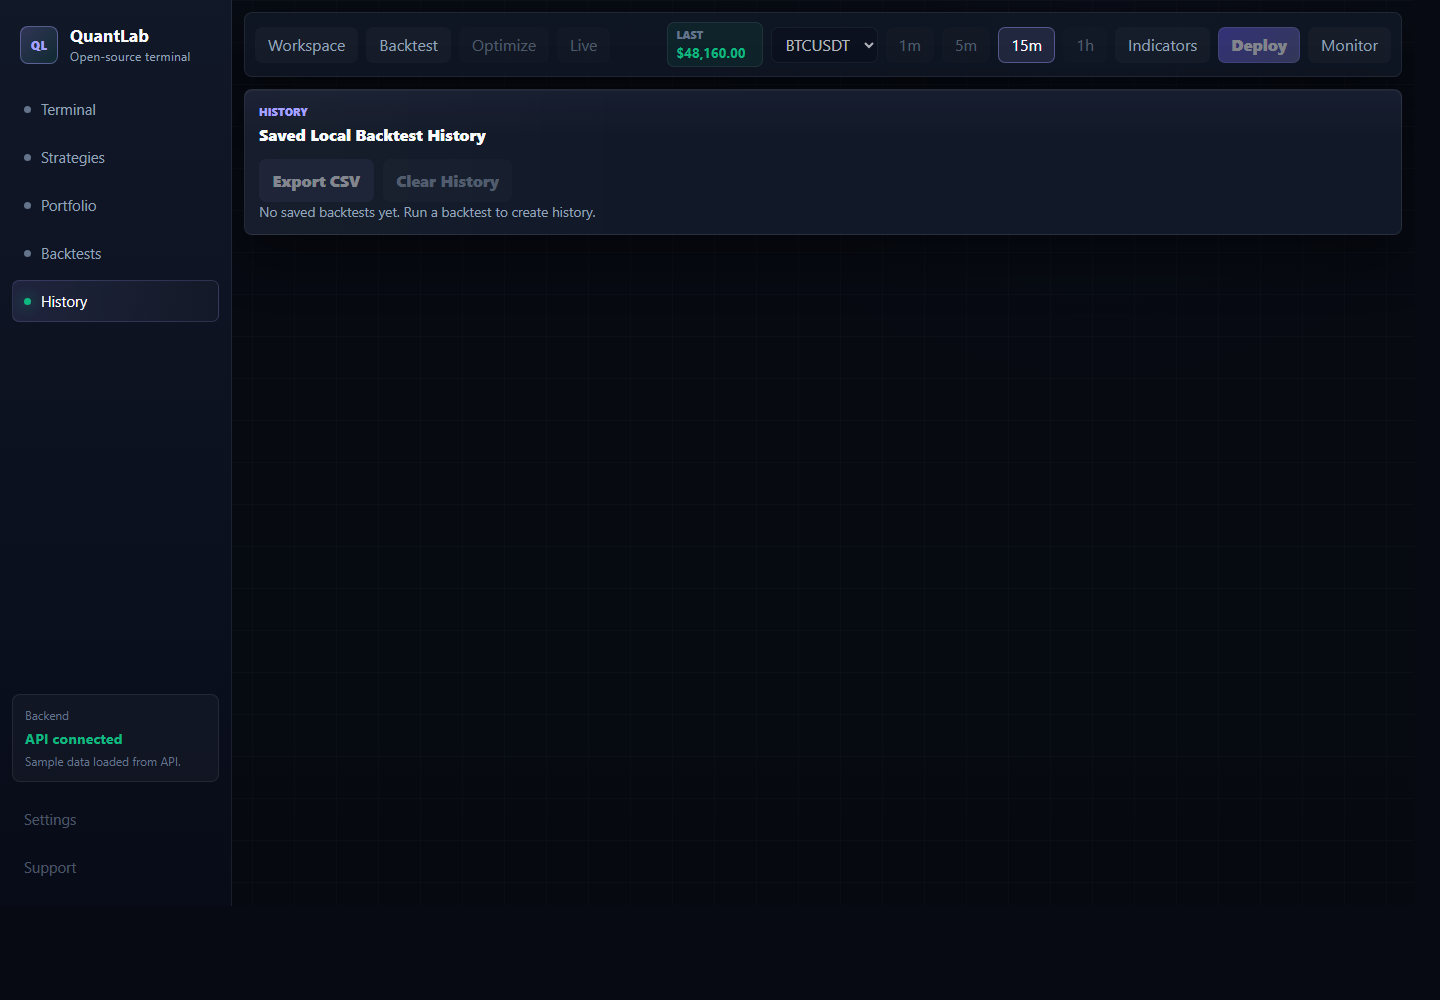
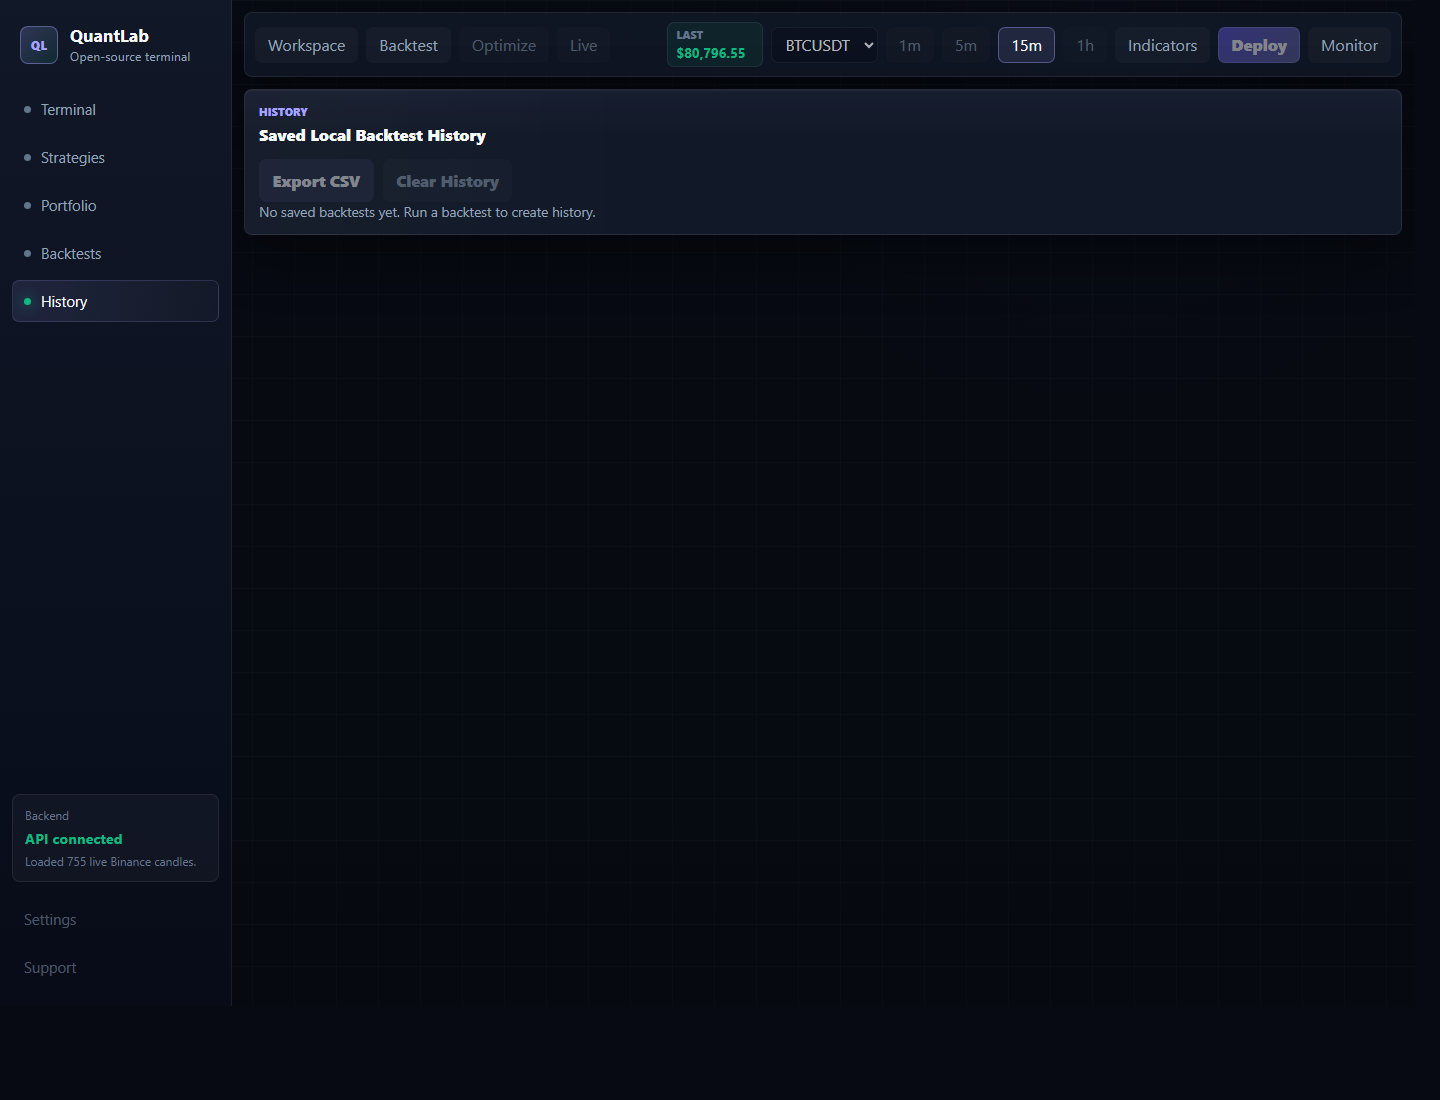
Refresh README screenshots

diff --git a/README.md b/README.md
@@ -18,15 +18,17 @@ This repository is intentionally scoped as an initial MVP for contributors. Does
 
 - Dark React + Vite + TypeScript trading-terminal frontend
 - Python + FastAPI backend
-- Bundled sample BTC-USD OHLCV data
-- CSV upload and OHLCV validation
+- Live Binance OHLCV candle fetches by symbol, interval, and date range
+- Bundled sample BTC-USD OHLCV fallback data
+- CSV/XLSX upload and OHLCV validation
 - Technical indicators:
   - SMA
   - EMA
   - RSI
   - Bollinger Bands
 - Moving average crossover backtest
-- Backtest summary, signals, equity curve, and trade log
+- Backtest summary, Sharpe ratio, signals, equity curve, and trade log
+- Interactive `lightweight-charts` candlestick/bar chart with SMA, signal, volume, zoom, and reset controls
 - Frontend fallback calculations if the backend is not running
 - Frontend and backend tests
 - GitHub Actions CI for frontend and backend checks
@@ -40,6 +42,7 @@ Frontend:
 - Vite
 - TypeScript
 - Plain CSS
+- Lightweight Charts
 - Vitest
 - ESLint
 - Prettier
@@ -52,6 +55,8 @@ Backend:
 - Pydantic
 - Pytest
 - HTTPX
+- Pandas
+- OpenPyXL
 - Ruff
 
 ## Screenshots
@@ -59,9 +64,14 @@ Backend:
 Current UI screenshots are documented in `docs/FRONTEND.md` and stored under `docs/screenshots/`:
 
 - `docs/screenshots/terminal-dashboard.png`
+- `docs/screenshots/ohlcv-candlestick-signals.png`
 - `docs/screenshots/backtest-history.png`
 
 ![QuantLab terminal dashboard](docs/screenshots/terminal-dashboard.png)
+
+![QuantLab OHLCV candlestick chart with signals](docs/screenshots/ohlcv-candlestick-signals.png)
+
+![QuantLab backtest history](docs/screenshots/backtest-history.png)
 
 ## Frontend Setup
 
@@ -126,6 +136,8 @@ The backend runs at `http://localhost:8000`. The frontend reads `VITE_API_URL`, 
 - `GET /health` returns backend service status.
 - `GET /api/sample-data` returns bundled OHLCV candles.
 - `POST /api/upload-csv` validates and normalizes OHLCV CSV uploads.
+- `POST /data/upload` validates and normalizes OHLCV CSV/XLSX uploads.
+- `GET /market/binance/klines` fetches Binance public OHLCV candles.
 - `POST /api/indicators` calculates SMA, EMA, RSI, and Bollinger Bands.
 - `POST /api/backtest/ma-crossover` runs the moving-average crossover backtest.
 
@@ -152,7 +164,7 @@ pytest
 
 ## CSV Format
 
-CSV uploads must include `timestamp` or `date`, plus these numeric columns:
+CSV/XLSX uploads must include a time column such as `timestamp`, `date`, `datetime`, or `time`, plus these numeric columns:
 
 ```csv
 timestamp,open,high,low,close,volume
@@ -192,8 +204,8 @@ Without GitHub CLI, create the labels manually in the GitHub repository settings
 - No live trading or brokerage execution.
 - No authentication or user accounts.
 - No database or persisted backtest history.
-- Sharpe ratio is intentionally shown as not implemented.
-- The chart is a lightweight SVG visualization, not a full charting engine.
+- No order execution, portfolio accounting, or risk engine.
+- Support/resistance zones are planned but not implemented yet.
 
 ## Repository Structure
 

diff --git a/docs/FRONTEND.md b/docs/FRONTEND.md
@@ -9,10 +9,17 @@ The QuantLab frontend lives in `frontend/`. It is a React + Vite + TypeScript ap
 The terminal dashboard focuses on the complete MVP path:
 
 - Load sample OHLCV data from the backend.
-- Upload validated OHLCV CSV files.
+- Fetch live Binance OHLCV candles.
+- Upload validated OHLCV CSV/XLSX files.
 - Toggle visible indicators.
 - Run the SMA crossover backtest against the FastAPI API.
-- View chart signals, metrics, and the trade log.
+- View the `lightweight-charts` candlestick/bar chart, signals, metrics, and the trade log.
+
+## OHLCV Chart
+
+![QuantLab OHLCV candlestick chart with signals](./screenshots/ohlcv-candlestick-signals.png)
+
+The chart supports candlestick and bar modes, SMA overlays, buy/sell signal markers, volume bars, zoom controls, and a hover OHLCV readout.
 
 ## Backtest History
 

diff --git a/docs/SCREENSHOTS.md b/docs/SCREENSHOTS.md
@@ -5,6 +5,7 @@ Screenshots in this repository are real captures of the local app and should be 
 ## Current Screenshots
 
 - `docs/screenshots/terminal-dashboard.png`
+- `docs/screenshots/ohlcv-candlestick-signals.png`
 - `docs/screenshots/backtest-history.png`
 
 ## Refresh Steps
@@ -23,6 +24,8 @@ cd frontend
 npm run dev
 ```
 
-3. Capture the terminal dashboard and history/backtest views from `http://127.0.0.1:5173/`.
+3. Capture the terminal dashboard, OHLCV chart, and history/backtest views from `http://127.0.0.1:5173/`.
+
+Current captures were refreshed on 2026-05-09 from the local app with the Binance candle controls and `lightweight-charts` chart visible.
 
 Do not add edited mockups as screenshots. If a visual is conceptual, label it as a mockup instead.

diff --git a/backend/README.md b/backend/README.md
@@ -1,6 +1,6 @@
 # QuantLab API
 
-FastAPI backend foundation for QuantLab. It validates OHLCV data, calculates technical indicators, and runs a simple moving-average crossover backtest.
+FastAPI backend foundation for QuantLab. It validates uploaded OHLCV data, fetches Binance public candles, calculates technical indicators, and runs a simple moving-average crossover backtest.
 
 Does not include authentication, live trading, brokerage APIs, databases, payments, or AI agents.
 
@@ -31,6 +31,8 @@ The API runs at `http://localhost:8000` by default.
 - `GET /health`
 - `GET /api/sample-data`
 - `POST /api/upload-csv`
+- `POST /data/upload`
+- `GET /market/binance/klines`
 - `POST /api/indicators`
 - `POST /api/backtest/ma-crossover`
 

diff --git a/docs/WORK_PROGRESS.md b/docs/WORK_PROGRESS.md
@@ -33,11 +33,11 @@ Support/resistance zone note:
 
 - TODO: add a translucent support/resistance zone overlay with a chart primitive or plugin. This was deferred to keep the current pass scoped and avoid breaking chart rendering.
 
-Screenshot placeholders:
+Screenshot captures:
 
 - `docs/screenshots/ohlcv-candlestick-signals.png`
-- `docs/screenshots/ohlcv-bar-chart.png`
-- `docs/screenshots/readme-badges.png`
+- `docs/screenshots/terminal-dashboard.png`
+- `docs/screenshots/backtest-history.png`
 
 ## 2026-05-09 - Backtesting and Data Features
 
